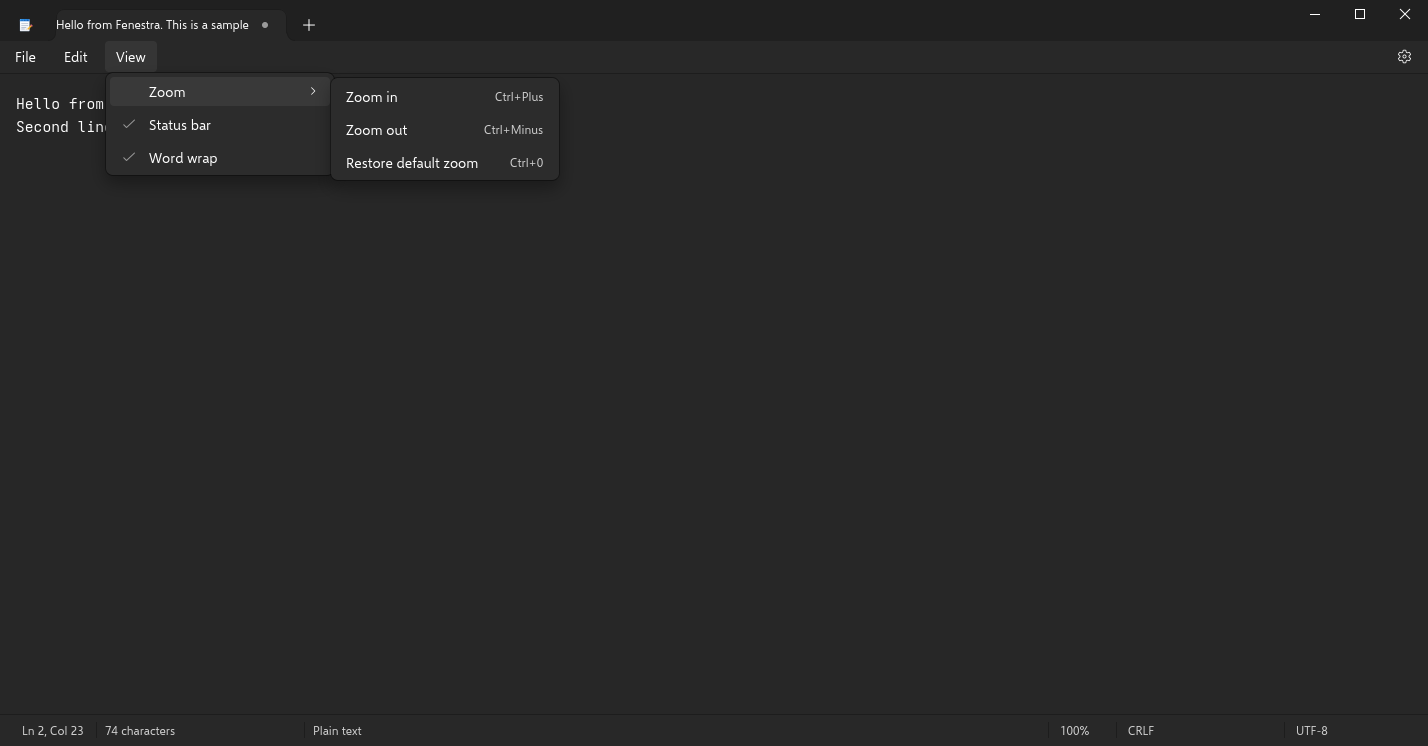
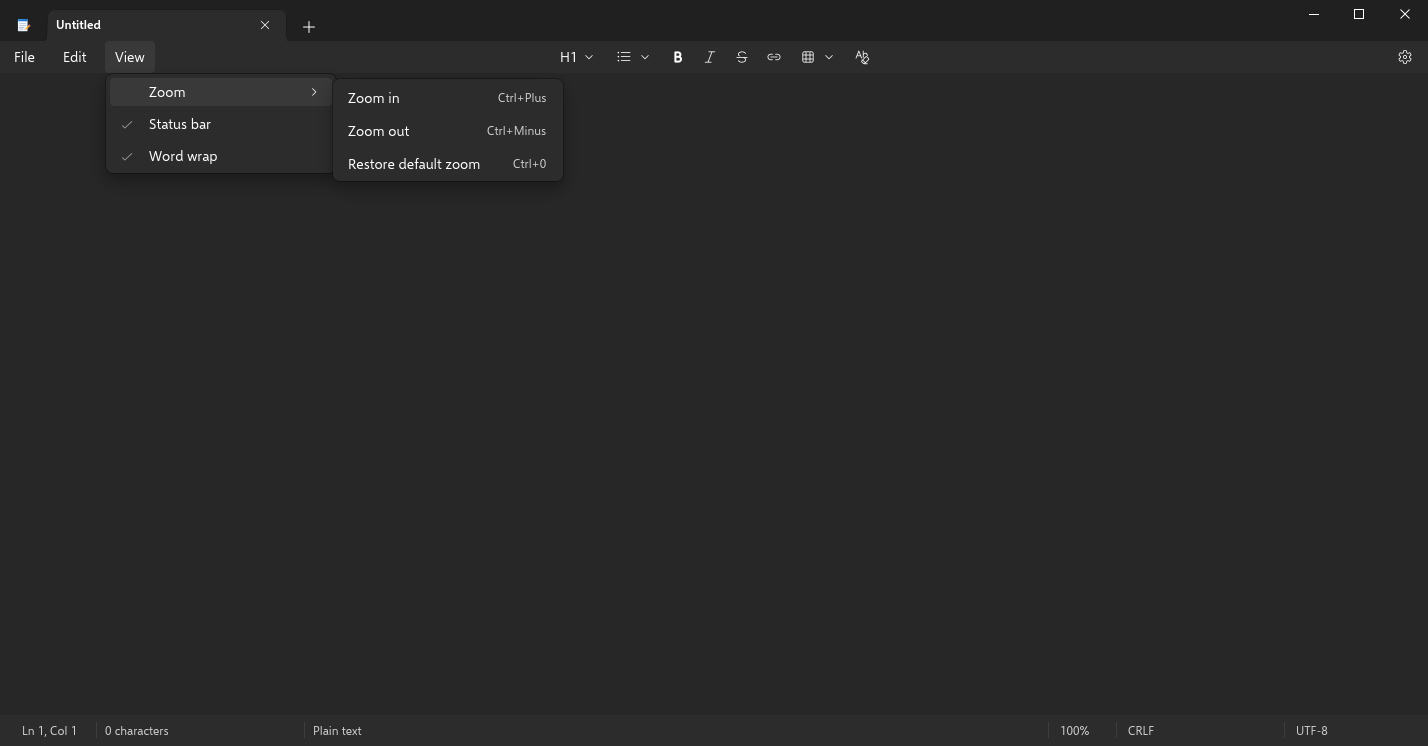
Notepad: README and screenshots regenerated after the reference pass
Claude-Session: https://claude.ai/code/session_01M9xAGjZsuStV1FXHj6MMn1

diff --git a/apps/fenestra-notepad/README.md b/apps/fenestra-notepad/README.md
@@ -2,7 +2,7 @@
 
 A from-scratch **Notepad** for Fenestra (Fedora 43 / GNOME 49) that looks and behaves like
 the current Windows 11 Notepad: tabs in the title bar with the unsaved-changes dot, File /
-Edit / View menu bar, Markdown formatting toolbar for Markdown tabs, floating Find / Replace
+Edit / View menu bar, Markdown formatting toolbar, floating Find / Replace
 card, status bar (position, characters, format, zoom, line ending, encoding), Settings page
 and session restore. It replaces GNOME Text Editor as the default text editor.
 
@@ -60,7 +60,8 @@ the running window (or in a new window, see *Settings > Opening files*).
   the status bar) get the formatting toolbar: headings 1–6 / body text, bulleted and
   numbered lists, bold (Ctrl+B), italic (Ctrl+I), strikethrough, link (Ctrl+K), table picker,
   clear formatting. Markdown is shown as styled syntax (bold, italic, larger headings,
-  struck-through text, links). Plain-text tabs hide the toolbar.
+  struck-through text, links). As in Windows the toolbar is shown on every tab while
+  *Formatting* is on; using it on a plain-text tab turns that tab into a Markdown one.
 * **Settings** (gear) – App theme (Light / Dark / Use system setting), Font (family, style,
   size, preview), Word wrap, Formatting, Opening files (new tab / new window), When Notepad
   starts (continue previous session / start new session), Recent Files, About.
@@ -91,8 +92,10 @@ tools/screenshots.sh                 # regenerate screenshots/
 
 `--screenshot OUT.png [--shot STATE] [--dark|--light] [--lang es]` renders a state
 (`main`, `menu-file`, `menu-edit`, `menu-view`, `menu-zoom`, `menu-recent`, `context`, `find`,
-`replace`, `settings`, `settings-font`, `markdown`, `tabs`, `save`, `goto`) with demo text and
-never reads or writes the user's settings or session.
+`replace`, `settings`, `settings-font`, `markdown`, `tabs`, `save`, `goto`, plus the reference
+states `text`, `empty`, `find-typed`, `find-options`, `settings-theme`) with demo text and never reads
+or writes the user's settings or session. `FENESTRA_SHOT_DEBUG=1` also prints the window-relative
+box of every styled widget, for measuring against reference captures.
 
 ## Install
 
